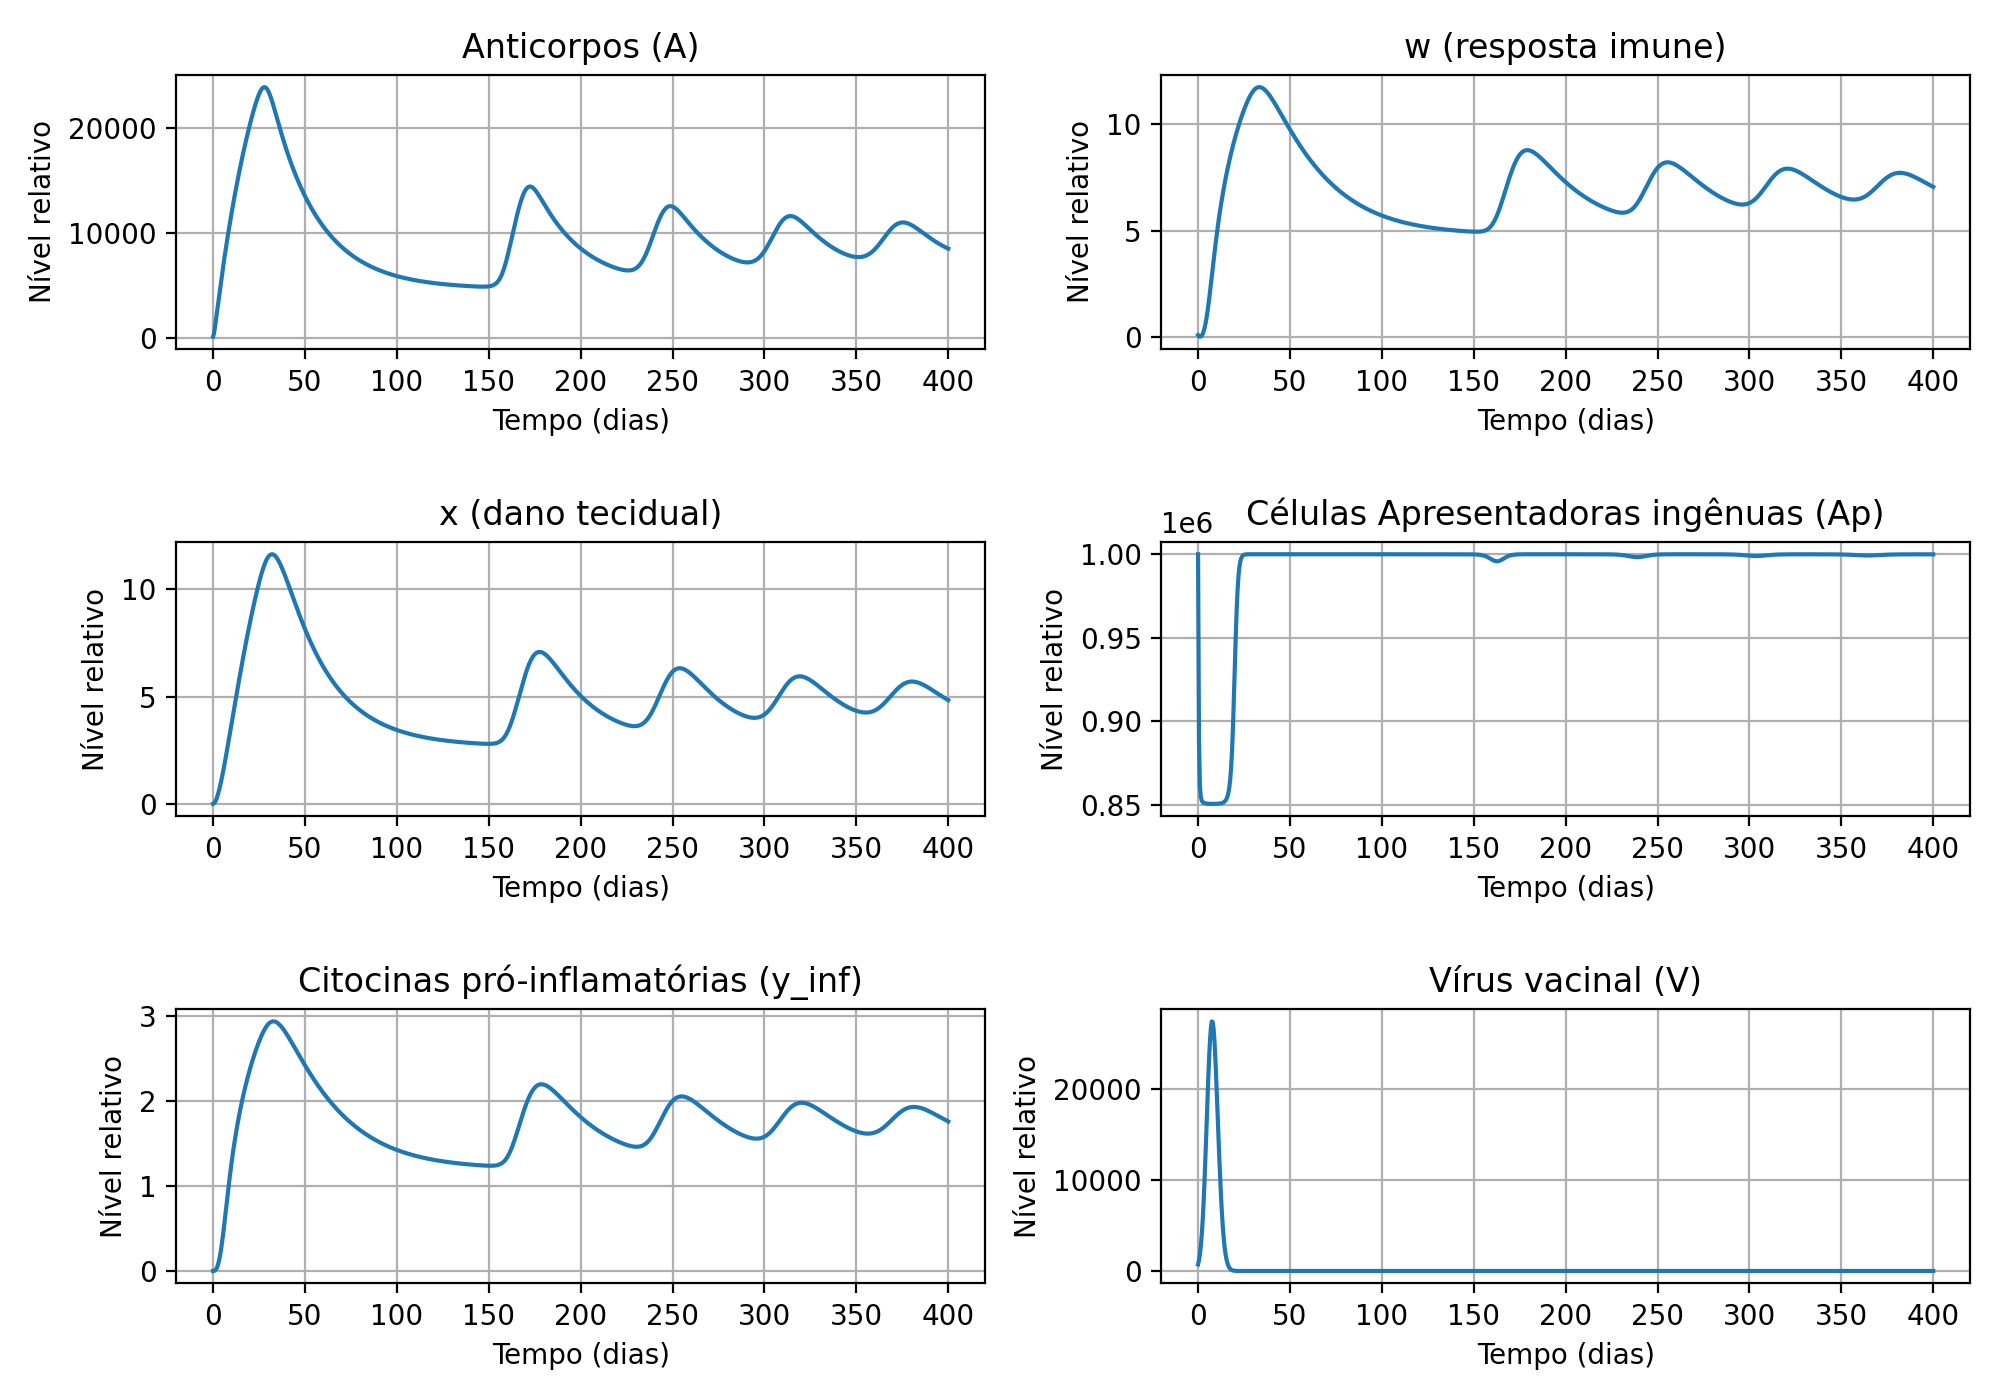
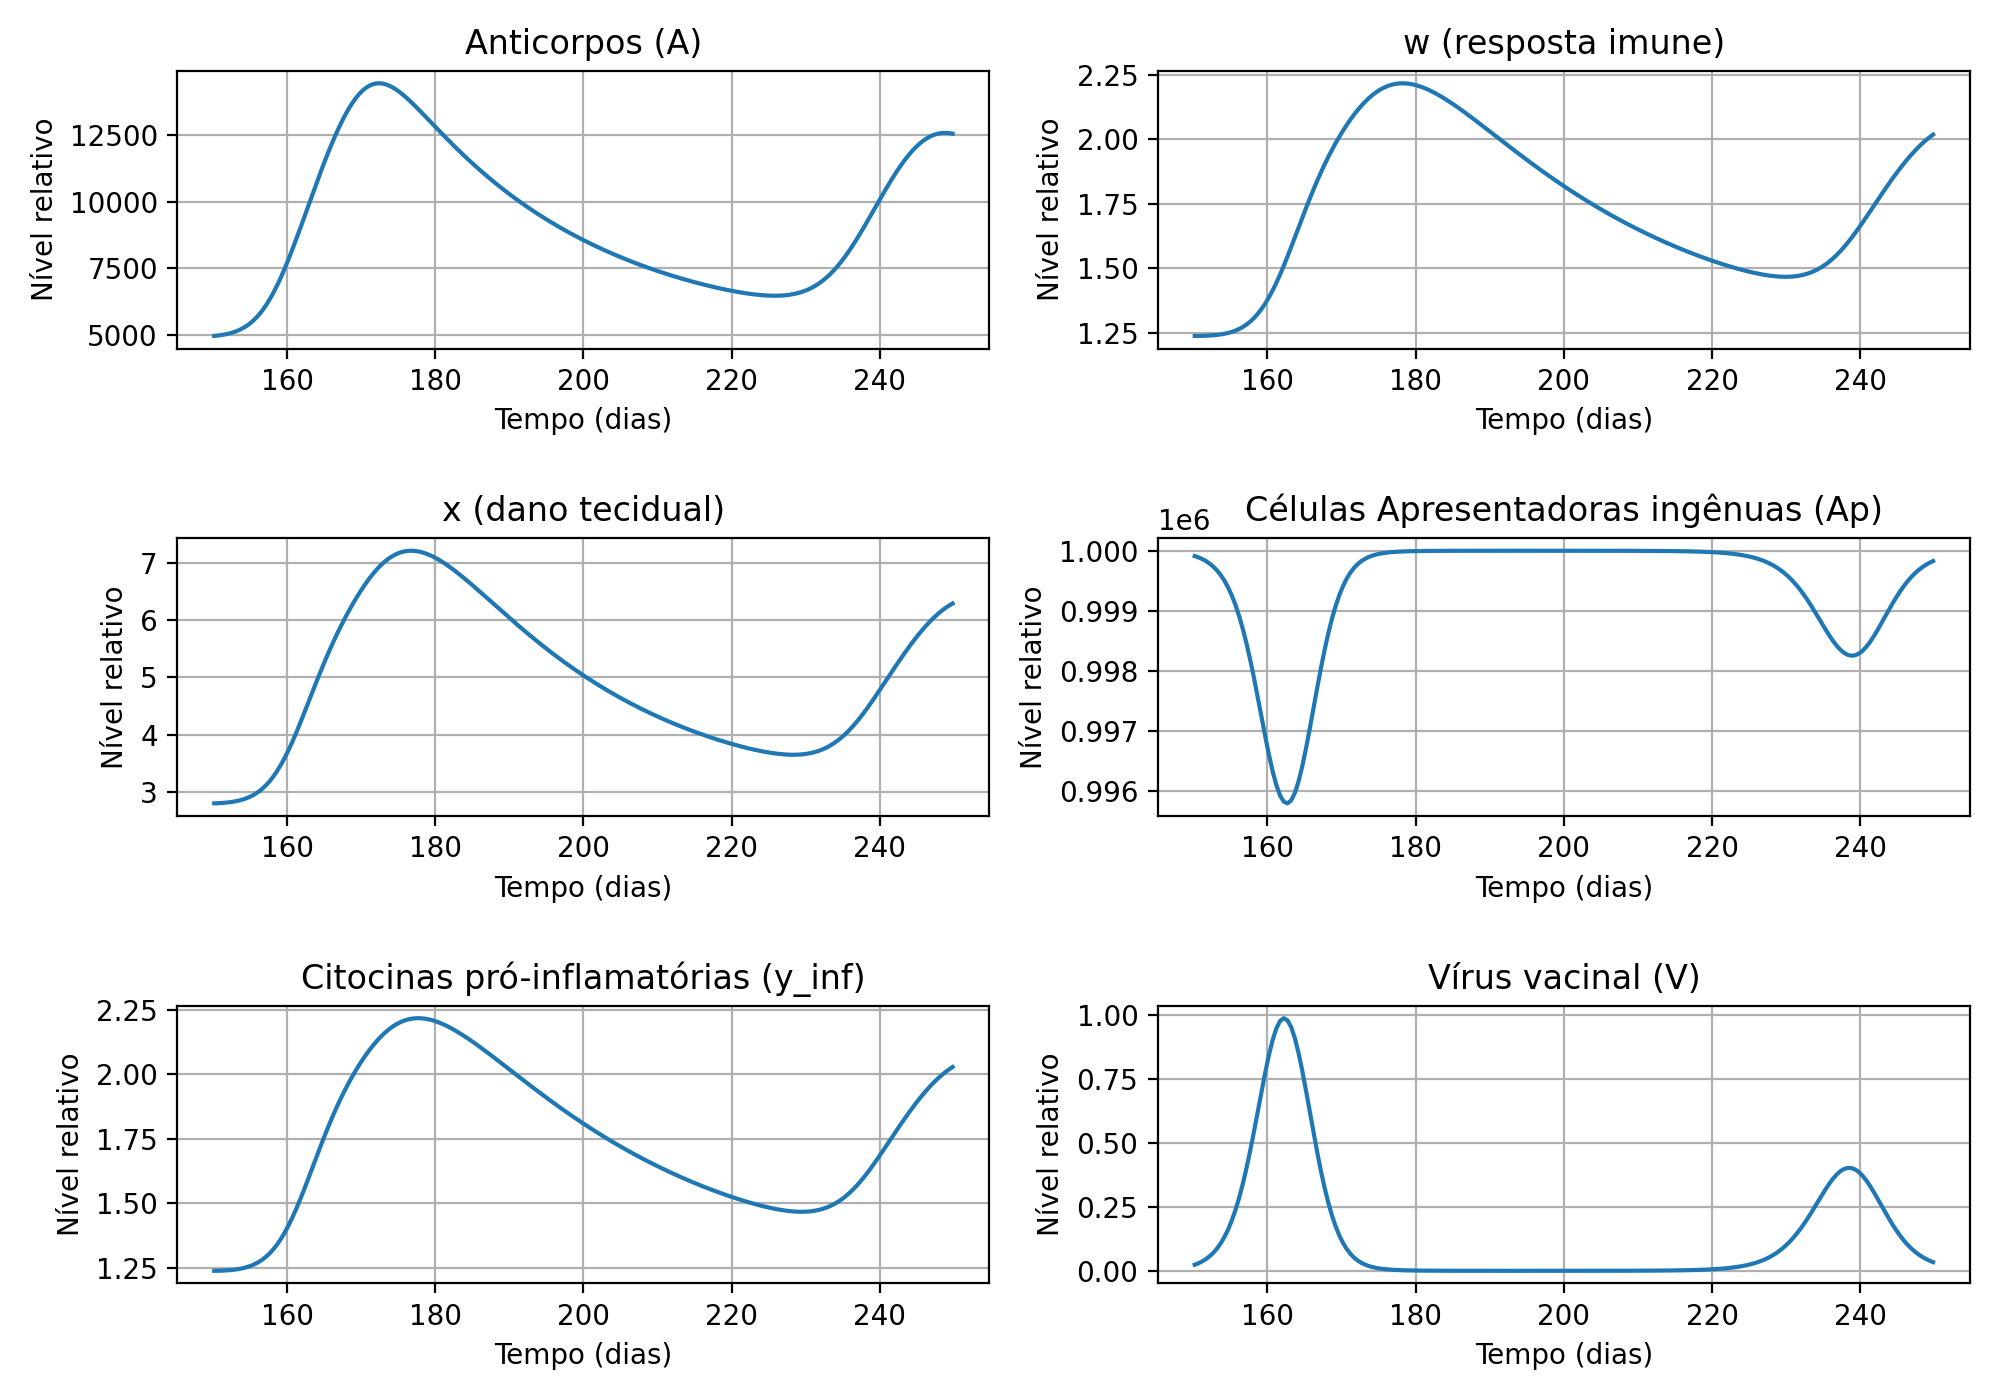
especificando periodo de simulação

diff --git a/modelo_acoplado.py b/modelo_acoplado.py
@@ -44,7 +44,7 @@ params = {
     'Tkn0': 5e5,
     'B0': 2.5e5,
 
-    'a': 0.2, 'b': 0.2, 'c': 0.2, 'd': 0.205, 'e': 0.2, 'f': 8.0, 'g': 0.2,
+    'a': 0.2, 'b': 0.2, 'c': 0.2, 'd': 0.205, 'e': 0.2, 'f': 2.0, 'g': 0.2,
     'h': 2.0, 'k': 2.0, 'r': 1.0, 's': 0.0, 
 
     'H1': 1e-4, 'H2': 1e-7, 'H3': 1e-8,  
@@ -56,7 +56,6 @@ def coupled_model(y, t, p):
 
     V, Ap, Apm, Thn, The, Tkn, Tke, B, Ps, Pl, Bm, A, w, x, y_inf  = y
 
-    dV = 0
     dV_im = p['πv']*V - p['cv1']*V/(p['cv2'] + V) - p['kv1']*V*A - p['kv2']*V*Tke
     dAp = p['αap']*(p['Ap0'] - Ap) - p['βap']*Ap*(p['cap1']*V)/(p['cap2'] + V)
     dApm = p['βap']*Ap*(p['cap1']*V)/(p['cap2'] + V) - p['δapm']*Apm
@@ -74,7 +73,7 @@ def coupled_model(y, t, p):
     bw = p['B1'] * A + p['B2'] * Tke + p['B3'] * Ap
 
     dw = p['s'] + p['f'] * y_inf - p['k'] * w
-    dx = bw + p['c'] * dV - p['g'] * x
+    dx = bw + p['c'] * V - p['g'] * x
     dy = p['a'] * x - (p['d'] + p['e'] * y_inf) * y_inf
 
 
@@ -102,20 +101,20 @@ y0 = [
     0.0,        # y_inf (inflamação inicial)
 ]
 
-t = np.linspace(0, 400, 801)
+t = np.linspace(0, 400, 800)
 
 
 sol = odeint(lambda y, t: coupled_model(y, t, params), y0, t)
 
-V, Ap, Apm, dThn, dThe, Tkn, Tke, dB, dPs, dPl, dBm, A ,w, x, y_inf = sol.T
+V, Ap, Apm, dThn, dThe, Tkn, Tke, dB, dPs, dPl, dBm, A ,w, x, y_inf = sol.T[:,300:500]
 
 fig2, axes2 = plt.subplots(3, 2, figsize=(10, 7))
-axes2[0,0].plot(t, A); axes2[0,0].set_title("Anticorpos (A)")
-axes2[0,1].plot(t, w); axes2[0,1].set_title("w (resposta imune)")
-axes2[1,0].plot(t, x); axes2[1,0].set_title("x (dano tecidual)")
-axes2[1,1].plot(t, Ap); axes2[1,1].set_title("Células Apresentadoras ingênuas (Ap)")
-axes2[2,0].plot(t, y_inf); axes2[2,0].set_title("Citocinas pró-inflamatórias (y_inf)")
-axes2[2,1].plot(t, V); axes2[2,1].set_title("Vírus vacinal (V)")
+axes2[0,0].plot(t[300:500], A); axes2[0,0].set_title("Anticorpos (A)")
+axes2[0,1].plot(t[300:500], w); axes2[0,1].set_title("w (resposta imune)")
+axes2[1,0].plot(t[300:500], x); axes2[1,0].set_title("x (dano tecidual)")
+axes2[1,1].plot(t[300:500], Ap); axes2[1,1].set_title("Células Apresentadoras ingênuas (Ap)")
+axes2[2,0].plot(t[300:500], y_inf); axes2[2,0].set_title("Citocinas pró-inflamatórias (y_inf)")
+axes2[2,1].plot(t[300:500], V); axes2[2,1].set_title("Vírus vacinal (V)")
 for ax in axes2.flat:
     ax.set_xlabel("Tempo (dias)")
     ax.set_ylabel("Nível relativo")
